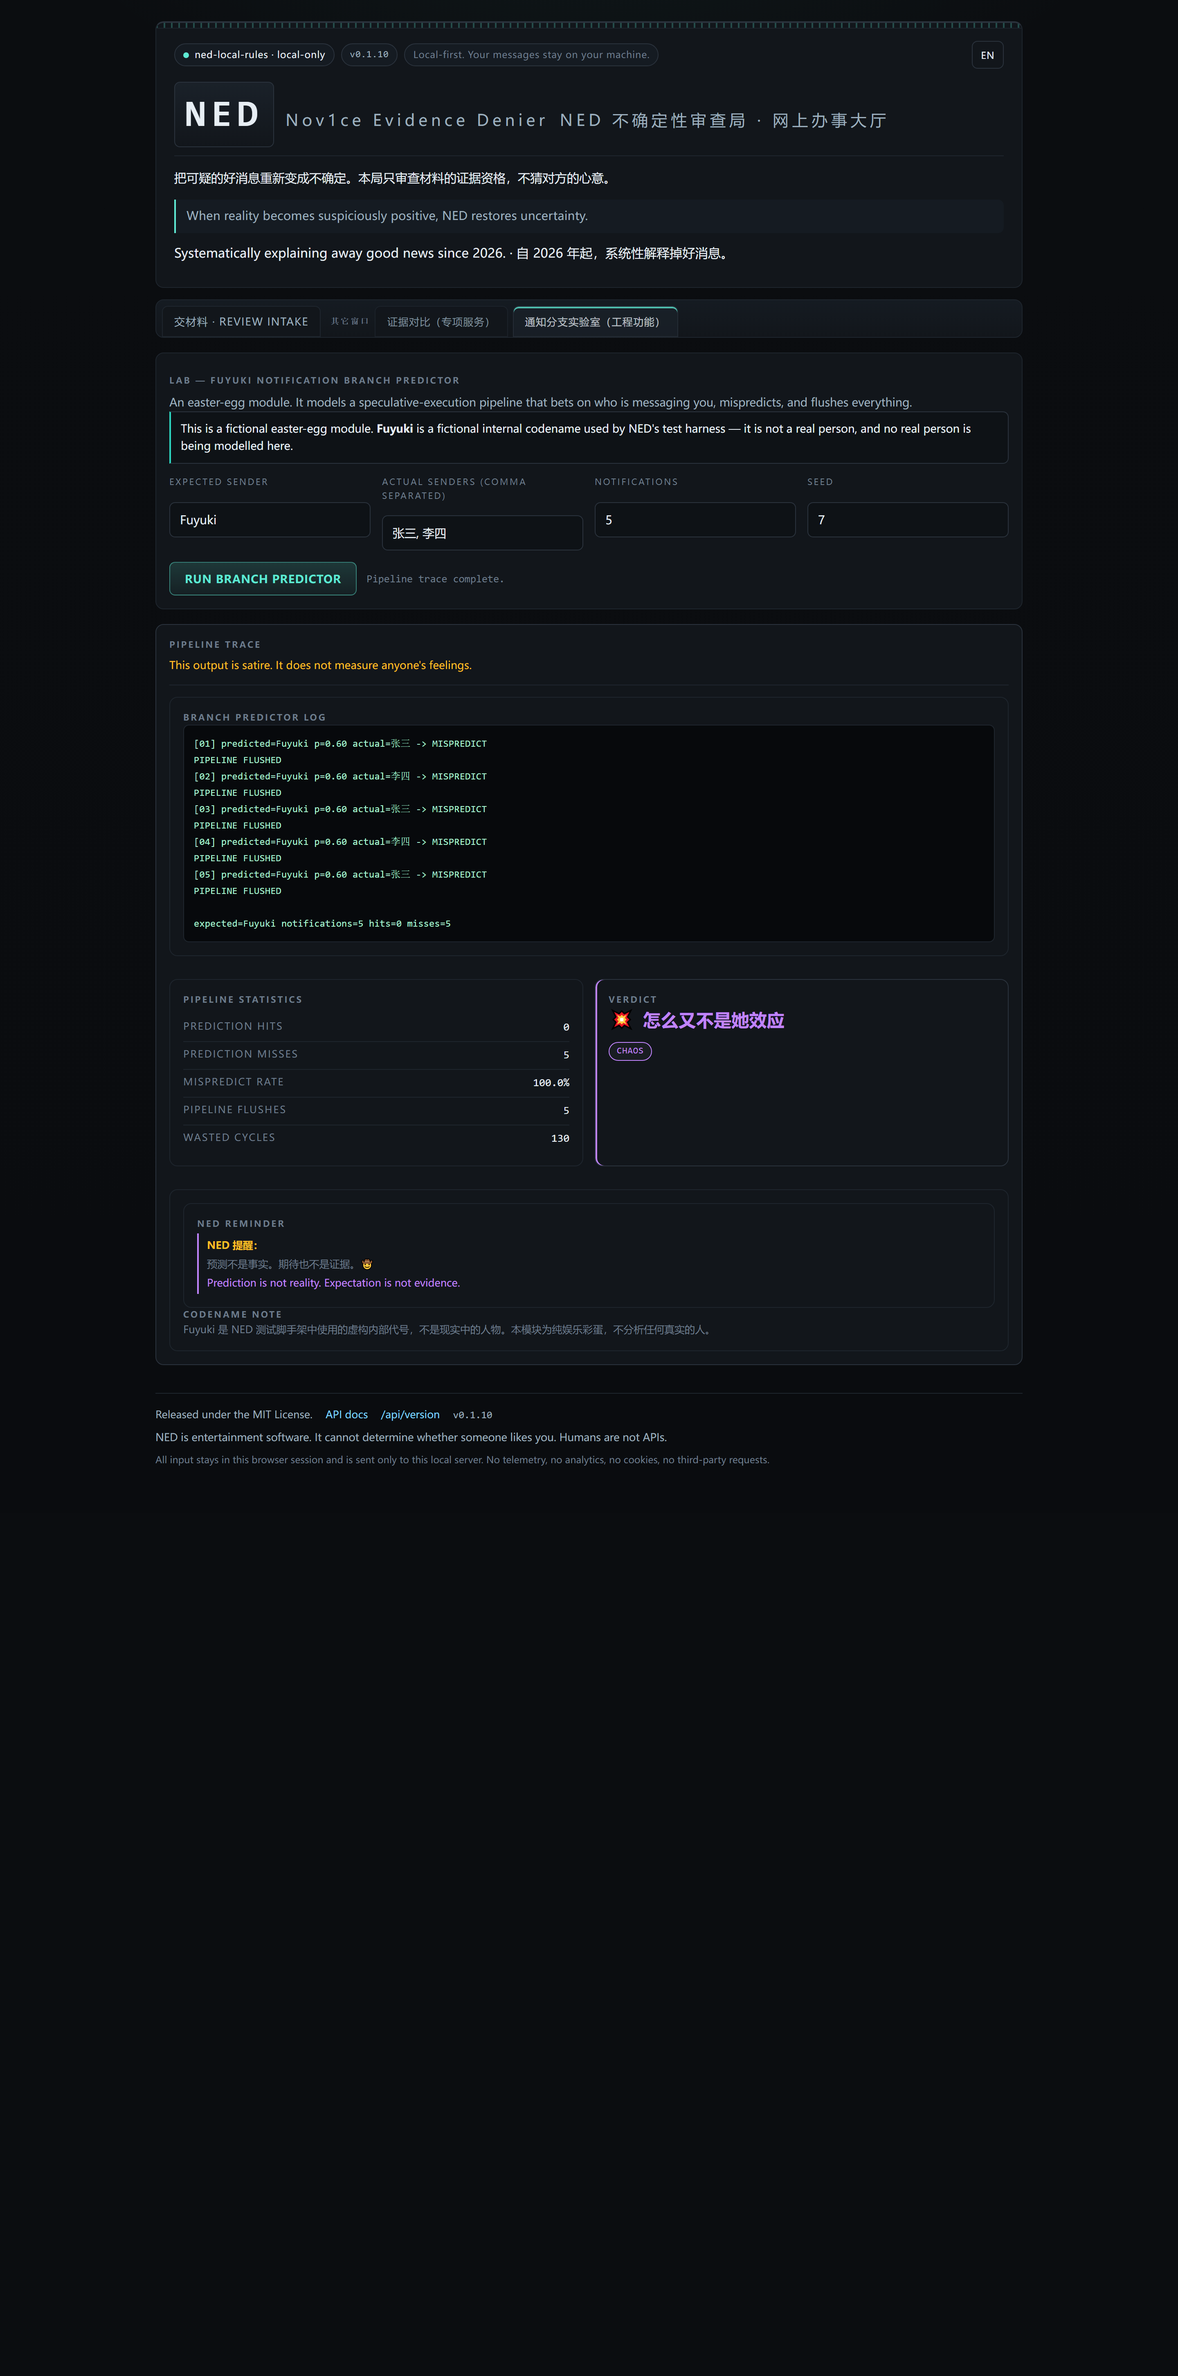
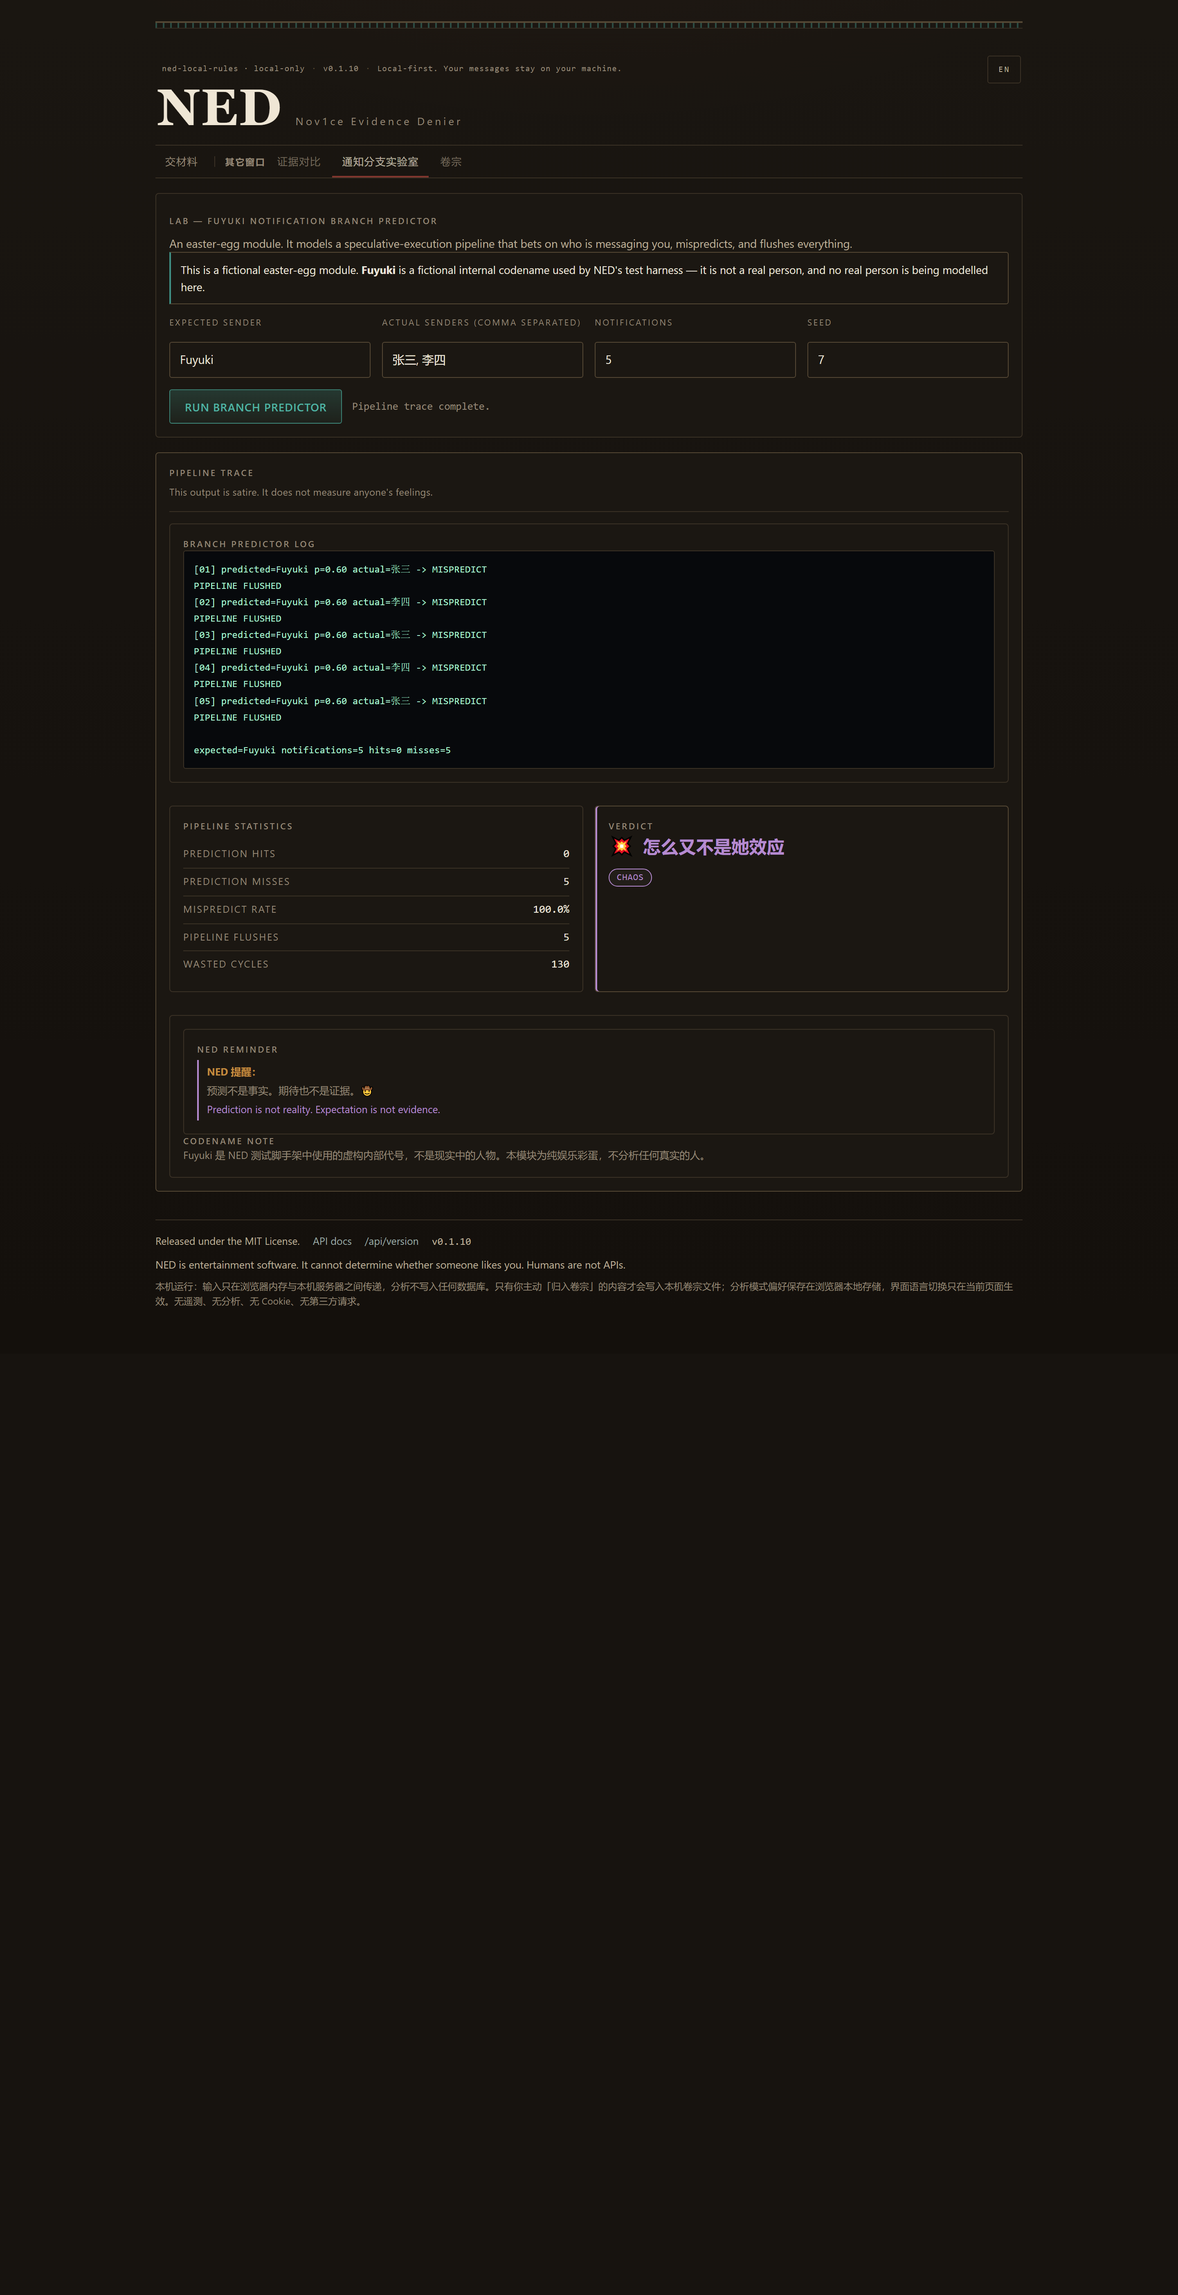
docs(release): reseal v0.1.10 - screenshots and documents on the final tree
The candidate sealed at f3f6d9a was superseded before publication: the casebook, the
joint review and the re-read layers landed after it, so its screenshots and its
documents described a tree that is no longer the release. This commit puts every
document and all four formal screenshots on the tree the archive is now built from.

Screenshots (all four re-taken, none reused):
  * analysis.png, asymmetry.png, fnbp-lab.png - re-captured from the real UI over the
    Chrome DevTools Protocol, each shot released only after its own readiness gate
    proved the report had rendered, in the shipped default configuration (no casebook
    switched on);
  * cli-extreme.png - docs/cli-extreme.txt was first re-verified byte-for-byte against
    a live `ned analyze "她说喜欢我" --mode extreme` run at the release width (99
    columns: 98-character rules, 63 lines), then the image was re-rendered from the
    committed text twice, to identical bytes.

Documents:
  * README.md - a "What's new in 0.1.10" section that names the casebook, the joint
    review and the re-read for the first time; a Features entry for the same; the
    screenshot section now says which tree the images came from; and the Privacy
    section no longer implies the casebook file appears only on the first filing (it
    appears when the casebook is switched on, and stays empty until something is
    filed).
  * CHANGELOG.md - the 0.1.10 entry carries the casebook layers, the relative-time
[…]

diff --git a/README.md b/README.md
@@ -87,6 +87,39 @@ you press the button.
 
 ---
 
+## What's new in 0.1.10 — Front Desk Renewal, and the casebook
+
+**The hall.** The local page now reads as a service hall: an intake window, a staged
+material registry, a review record, a serious register and an issuance stamp, with
+every label coming from one shared catalogue. Geometry, spacing and typography only —
+the verdict layer, the score, the signal families and the REST/CLI contract are
+unchanged.
+
+**The casebook — the first thing NED ever keeps.** It is opt-in, it is a file on your
+own machine, and it is off until you switch it on (`NED_CASEBOOK=on`). Analysing still
+writes nothing; the only write path is the button you press yourself. Three windows
+come with it:
+
+- **归入卷宗 — file a case.** The filed page keeps the input, the reading it got at the
+  time, and the engine and rule version that produced it. Filing the same sentence
+  twice on purpose files two cases; pressing the button twice files one.
+- **调卷联合审查 — read beside the archive.** NED reads an archived casebook next to
+  the message in front of you and reports direction: 与本案方向一致 / 与本案冲突 /
+  已被更晚的明确边界覆盖 / 无法比较 / 记录不足. It does not average, does not merge,
+  and says so: 这是卷宗意见，不是新的最终裁决。
+- **用当前版本重读 — re-read an archived case.** The reading stored at the time and the
+  reading the current rules produce are shown side by side, with the differences
+  classified; the stored record is never rewritten, and the block says so when nothing
+  changed.
+
+**Time is the one thing NED refuses to compute.** A date-like wording (`昨天`, `上周`,
+`a few days ago`) is reported as a hint and nothing more: NED does not convert it, and a
+filed page keeps the fact that the text mentioned time while leaving the date empty. If
+you supply a date yourself, it is stored as *yours* — 事件时间 2026-08-25（由你补充）—
+and only then can that page take part in ordering. A page with no date is shown as
+无法比较 instead of being sorted somewhere plausible, and an unknown order never
+produces a claim that one page overrides another.
+
 ## What's new in 0.1.8 — Evidence Standards, Both Ways
 
 Two new capabilities, one subject: **the same window for every conclusion, and no
@@ -146,12 +179,15 @@ All four views are exercised by the test suite (`tests/test_api.py`,
 version each image was captured from is printed inside the image itself, so an
 image always shows its own capture version — which is exactly why it has to be
 re-captured after a UI change or a version bump instead of being assumed current.
-All four images now show 0.1.10. The three web images were re-captured from the
-0.1.10 UI: the front desk is the renewed one, and each shot was taken only after its
-own readiness gate proved the report had rendered. The CLI image was re-captured in
-two documented steps — `docs/cli-extreme.txt` was regenerated from the 0.1.10 CLI at
-the release width, then the image was re-rendered from it — so the version printed
-inside that image is the released one as well. Re-capture with:
+All four images now show 0.1.10 and were taken from the resealed release candidate,
+not from an earlier tree. The three web images were re-captured from that UI: the
+casebook tab is part of the page, the shots are taken in the shipped default
+configuration (no casebook switched on), and each shot was taken only after its own
+readiness gate proved the report had rendered. The CLI capture was re-verified
+byte-for-byte against a live `ned analyze "她说喜欢我" --mode extreme` run at the release
+width (99 columns), and the image was then re-rendered *from* the committed
+`docs/cli-extreme.txt` twice, to identical bytes — so the version printed inside that
+image is the released one as well. Re-capture with:
 
 ```bash
 ned serve --port 8742                          # terminal 1
@@ -203,6 +239,13 @@ from calm cyan to "Industrial-grade denial" magenta.
 - **Multiple Aspects.** When the input reports several materials that can each stand
   on their own page, NED keeps every page with its own grade and refuses to add them
   up: no average, no merge, no ranking, no overall relationship score.
+- **Casebook (opt-in, local, off by default).** File an analysed input into a named
+  casebook, read a new message *beside* the archived ones (`归入卷宗` → `调卷联合审查`),
+  and re-read an archived case with the current rules (`用当前版本重读`). The joint
+  review reports direction — 与本案方向一致 / 与本案冲突 / 已被更晚的明确边界覆盖 /
+  无法比较 / 记录不足 — never an average and never a new verdict (`这是卷宗意见，不是
+  新的最终裁决。`). Relative-time wording is flagged and never turned into a date; a date
+  you supply is stored as yours, and only dated pages take part in ordering.
 - **FNBP — Fuyuki Notification Branch Predictor.** A Lab easter egg that simulates
   mispredicting every notification as being from one specific person, complete with
   pipeline flushes and wasted cycles.
@@ -559,8 +602,9 @@ NED v0.1 is **local-first**:
 
 - no uploads, no cloud, no third-party API calls;
 - no files written from your input by an analysis, and no accounts;
-- the casebook is a local database file, and it exists only if you switch it on and file
-  something into it yourself; anything you file is kept until you delete it;
+- the casebook is a local database file and it is off by default; switching it on is
+  what puts a file on this machine, that file stays empty until you file something into
+  it yourself, and anything you file is kept until you delete it;
 - re-reading an archived case is computed on the spot and stored nowhere;
 - no telemetry, no analytics, no trackers, no cookies;
 - the web UI keeps your text in the browser and stores only the selected mode in

diff --git a/CHANGELOG.md b/CHANGELOG.md
@@ -27,7 +27,9 @@ the one shared catalogue. The cycle this version ships also carries the boundary
 and material-layer corrections merged after `v0.1.9`, so the judgement layer does move
 against that tag: 6,050 of the 9,471 corpus inputs answer differently, and 1,982 of those
 change verdict — always an existing situation giving way to another existing situation
-(measured in `RELEASE_CHECKLIST.md` §13). No new verdict, no new signal family, no new
+(measured in `RELEASE_CHECKLIST.md` §13). The same cycle also carries the casebook, the
+first thing NED has ever been able to keep: opt-in, local, off by default, and written
+only by a button the reader presses. No new verdict, no new signal family, no new
 score, and no REST or CLI contract change: the shape of the output is the same, and the
 answers differ where attribution was wrong.
 
@@ -49,6 +51,21 @@ so the only verdict migrations are the ones measured above.
   the strings it always shipped.
 - Permanent pins for the front-desk copy contract, the responsive/accessibility
   contract, the serious register, and the quoted-boundary behaviour.
+- Opt-in **casebook** (M1–M4D): `归入卷宗` files an analysed input into a named casebook
+  on this machine; `调卷联合审查` reads a new message beside the archived pages and
+  reports direction only — 与本案方向一致 / 与本案冲突 / 已被更晚的明确边界覆盖 /
+  无法比较 / 记录不足 — and states 这是卷宗意见，不是新的最终裁决; `用当前版本重读`
+  shows an archived case's stored reading beside the reading the current rules produce,
+  with the differences classified and nothing written back. `NED_CASEBOOK` is off unless
+  the reader switches it on, and analysing still stores nothing.
+- Relative-time wording is reported as a hint and never converted to a date
+  (`relative_time_cues`, 43 Chinese and 27 English cues, no clock and no timezone); a
+  date the reader supplies is stored with its provenance (`occurred_source=user`,
+  `occurred_precision=day`) and is the only kind of date that can order a casebook page.
+  A page whose text only implies a time is stored as `input_relative` with no date at all.
+- Permanent pins for the casebook store schema and its immutability triggers, the
+  temporal-window ordering, the joint-review relation set, the re-read alignment, and the
+  relative-time detector.
 
 ### Fixed
 - An explicit boundary written inside the corner brackets `「」` / `『』` is
@@ -69,10 +86,14 @@ so the only verdict migrations are the ones measured above.
   reader discounting herself.
 - Response latency can now be insufficient evidence on its own, so `我给她发消息她隔天才回`
   reaches the latency screen instead of no signal.
+- The engine's storage note describes the casebook instead of claiming NED has no database
+  at all: analysing stores nothing and sends nothing anywhere, and a casebook file exists on
+  this machine only if the reader switches it on and files something into it themselves.
 - The README's current-version samples read 0.1.10, the bilingual claim is scoped to what is
-  measured, and all four screenshot rows are marked current for this version: the three web
-  images were re-captured from the 0.1.10 UI, and the CLI capture was regenerated from the
-  0.1.10 CLI before its image was re-rendered.
+  measured, and all four screenshot rows are marked current for this version: the resealed
+  candidate's UI is what the three web images were captured from, and the CLI capture was
+  re-verified against the live CLI at the release width before its image was re-rendered
+  from it.
 
 ### Known boundaries (not fixed in this release)
 - **English has no reported-material layer.** The material registry and the report-frame

diff --git a/RELEASE_CHECKLIST.md b/RELEASE_CHECKLIST.md
@@ -206,6 +206,10 @@ Release name: **NED v0.1.9 — Hard-line Maintenance**
 
 ## 13. v0.1.10 Release Preparation
 
+> **Superseded by §14.** The candidate this section records was re-sealed before
+> publication: its release evidence and its archive are void, and the sections below are
+> kept as the record of that preparation only.
+
 Front Desk Renewal, the boundary-ownership and material-layer corrections merged after `v0.1.9`,
 and one quoted-boundary fix. The local page reads as a service hall whose copy comes from the
 shared catalogue (shell, intake window, staged material registry, review record, serious
@@ -245,3 +249,23 @@ stays `1` because no REST contract changed.
 | Front-desk cosmetics | Mobile directory swipe, 10.2-10.6 px label register, 26 px nested disclosure hit area: recorded, not fixed |
 
 Release name: **NED v0.1.10 — Front Desk Renewal** (prepared, not yet published)
+
+## 14. v0.1.10 Final Release Reseal
+
+The §13 candidate was superseded before publication, so every document and every formal
+screenshot is now bound to the resealed candidate, and the older candidate's release
+evidence and archive are void.
+
+| Check | Result |
+| --- | --- |
+| Release commit | the commit carrying this section; its identity and the authorised archive bytes are recorded together in `_rc/rh4/RELEASE_0110_EVIDENCE.json` and `_rc/rh4/artifact_0110.json`, and `_rc/rh4/release_0110_execute.py` refuses to run against any other HEAD or any other archive |
+| Superseded candidate | the §13 candidate `f3f6d9a` and its archive (2,638,725 bytes, sha256 `199cf15b…`) are **void**: kept only under `_rc/rh4/superseded_f3f6d9a/` with a marker saying so, and not to be uploaded |
+| Screenshots | all four re-taken from the resealed tree (`docs/screenshots/analysis.png`, `asymmetry.png`, `fnbp-lab.png`, `cli-extreme.png`), each web shot released only after its own readiness condition held; `docs/cli-extreme.txt` re-verified byte-for-byte against a live 99-column CLI capture and the CLI image re-rendered from it twice to identical bytes |
+| Documentation | README ("What's new in 0.1.10", Features, Screenshots, Privacy), `CHANGELOG.md`, this checklist and `_rc/rh4/RELEASE_RUNBOOK_v0.1.10.md` re-read against the product; the casebook, joint-review and re-read layers are documented for the first time, and the README's casebook-file sentence now says what the file actually does |
+| Full gates | the release gate set re-run on the resealed commit — product health, the casebook and review suites, the discipline batches, the semantic matrices against the pre-casebook baseline, docs and asset checks, the shipped-JS harnesses, the real-browser sequences, and the release-evidence checks: `FINAL GATE FAILURES (must be 0): 0` |
+| Source archive | rebuilt from the resealed commit; entry set equal to `git ls-tree -r`, every file byte-identical to that commit's tree, reproduced twice with the same sha256 |
+| Smoke | the archive extracted into scratch reports the release version, exercises the seven shipped boundary cases, and passes the full test suite from inside the extracted tree |
+| Rehearsal | the five mutating commands printed verbatim, with HEAD, worktree, tag list and archive bytes asserted unchanged afterwards |
+| Not part of this reseal | tag creation, push, release publication — none performed |
+
+Release name: **NED v0.1.10 — Front Desk Renewal** (resealed, not yet published)

diff --git a/docs/screenshots/README.md b/docs/screenshots/README.md
@@ -9,13 +9,15 @@ check them against [`../../RELEASE_CHECKLIST.md`](../../RELEASE_CHECKLIST.md) se
 
 | File | Tab / command | State to capture |
 | --- | --- | --- |
-| `analysis.png` | Analyze | `她说喜欢我`, mode **Nov1ce Extreme**, after Analyse — the first screen, with signal, discount, reaching level and verdict inside the folded **Technical Details** |
+| `analysis.png` | Analyze | `她说喜欢我`, mode **Nov1ce Extreme**, after Analyse — the first screen, with signal, discount, reaching level and verdict inside the folded **Technical Details**. Capture it in the shipped default configuration: no casebook switched on, so no casebook file exists and no filing action is offered |
 | `asymmetry.png` | Asymmetry Detector | defaults (`她主动找我聊了两个小时` vs `五分钟没回复`) — the comparison first screen; the treated weights (11.5% / 90.0%) are inside the folded **Technical Details** |
 | `fnbp-lab.png` | Lab (FNBP) | defaults, after Run Branch Predictor — shows the pipeline log and `怎么又不是她效应` |
 | `cli-extreme.png` | CLI | `ned analyze "她说喜欢我" --mode extreme`, the full report |
 
-Suggested size: **1440 × 1000** (or a 2× device scale factor for crisp text). Use a
-dark background — the UI is dark by default.
+The script sets a **1440 × 1000** viewport at a 2× device scale factor and screenshots
+the *full page*, so the three web images come out 1440 CSS px wide and about 2806 px tall
+(2880 × 5612 device pixels), and the CLI page about 1180 × 1258 CSS px. Use a dark
+background — the UI is dark by default.
 
 Both web reports keep their rigorous blocks behind the folded **Technical Details**,
 so a screenshot of a settled view shows the first screen plus the folded headers.
@@ -52,13 +54,15 @@ python scripts/capture_screenshots.py --cli-only --out-dir <absolute-path>
 Step 1 is a terminal capture, so the committed file carries three *environment*
 normalisations and nothing else: CRLF is written as LF, trailing whitespace on each
 line is stripped (the renderer pads some lines), and the box is drawn for a 99-column
-terminal (98-character rules, 62 lines). Nothing else about the capture is edited — the
+terminal (98-character rules, 63 lines). Nothing else about the capture is edited — the
 report text itself is exactly what the CLI printed. Step 2 needs an absolute `--out-dir`;
 a relative or out-of-repo path writes the image first and then raises.
 
 The image is evidence of the version it was captured from, so after any version bump
 both steps have to be repeated; the engine version printed inside the image is the
-check.
+check. The render is deterministic: re-rendering the same committed text produces the
+same PNG bytes, which is how a re-seal proves the image it ships is the image of the
+capture it ships.
 
 ## Rules
 
